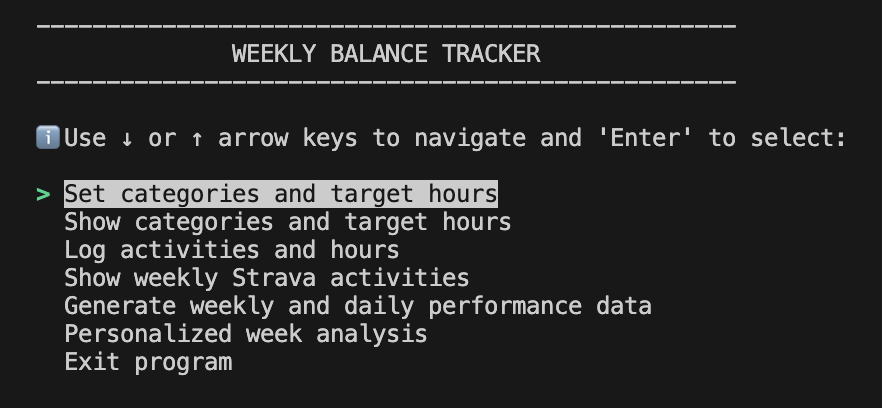
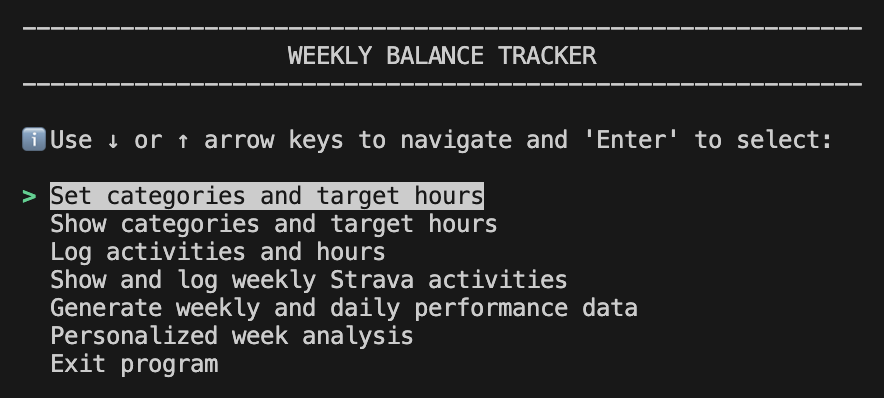
update assets

Changed region(s): [[0.0306, 0.4221, 0.7347, 0.9648], [0.0306, 0.0603, 0.9796, 0.2412], [0.0, 0.3015, 0.9796, 0.392]]

diff --git a/utils.py b/utils.py
@@ -6,7 +6,7 @@ def clear_screen():
 
 
 def print_heading(text):
-    line_length = 50
+    line_length = 60
     print("\n" + "-" * line_length)
     print(text.center(line_length))
     print("-" * line_length + "\n")
